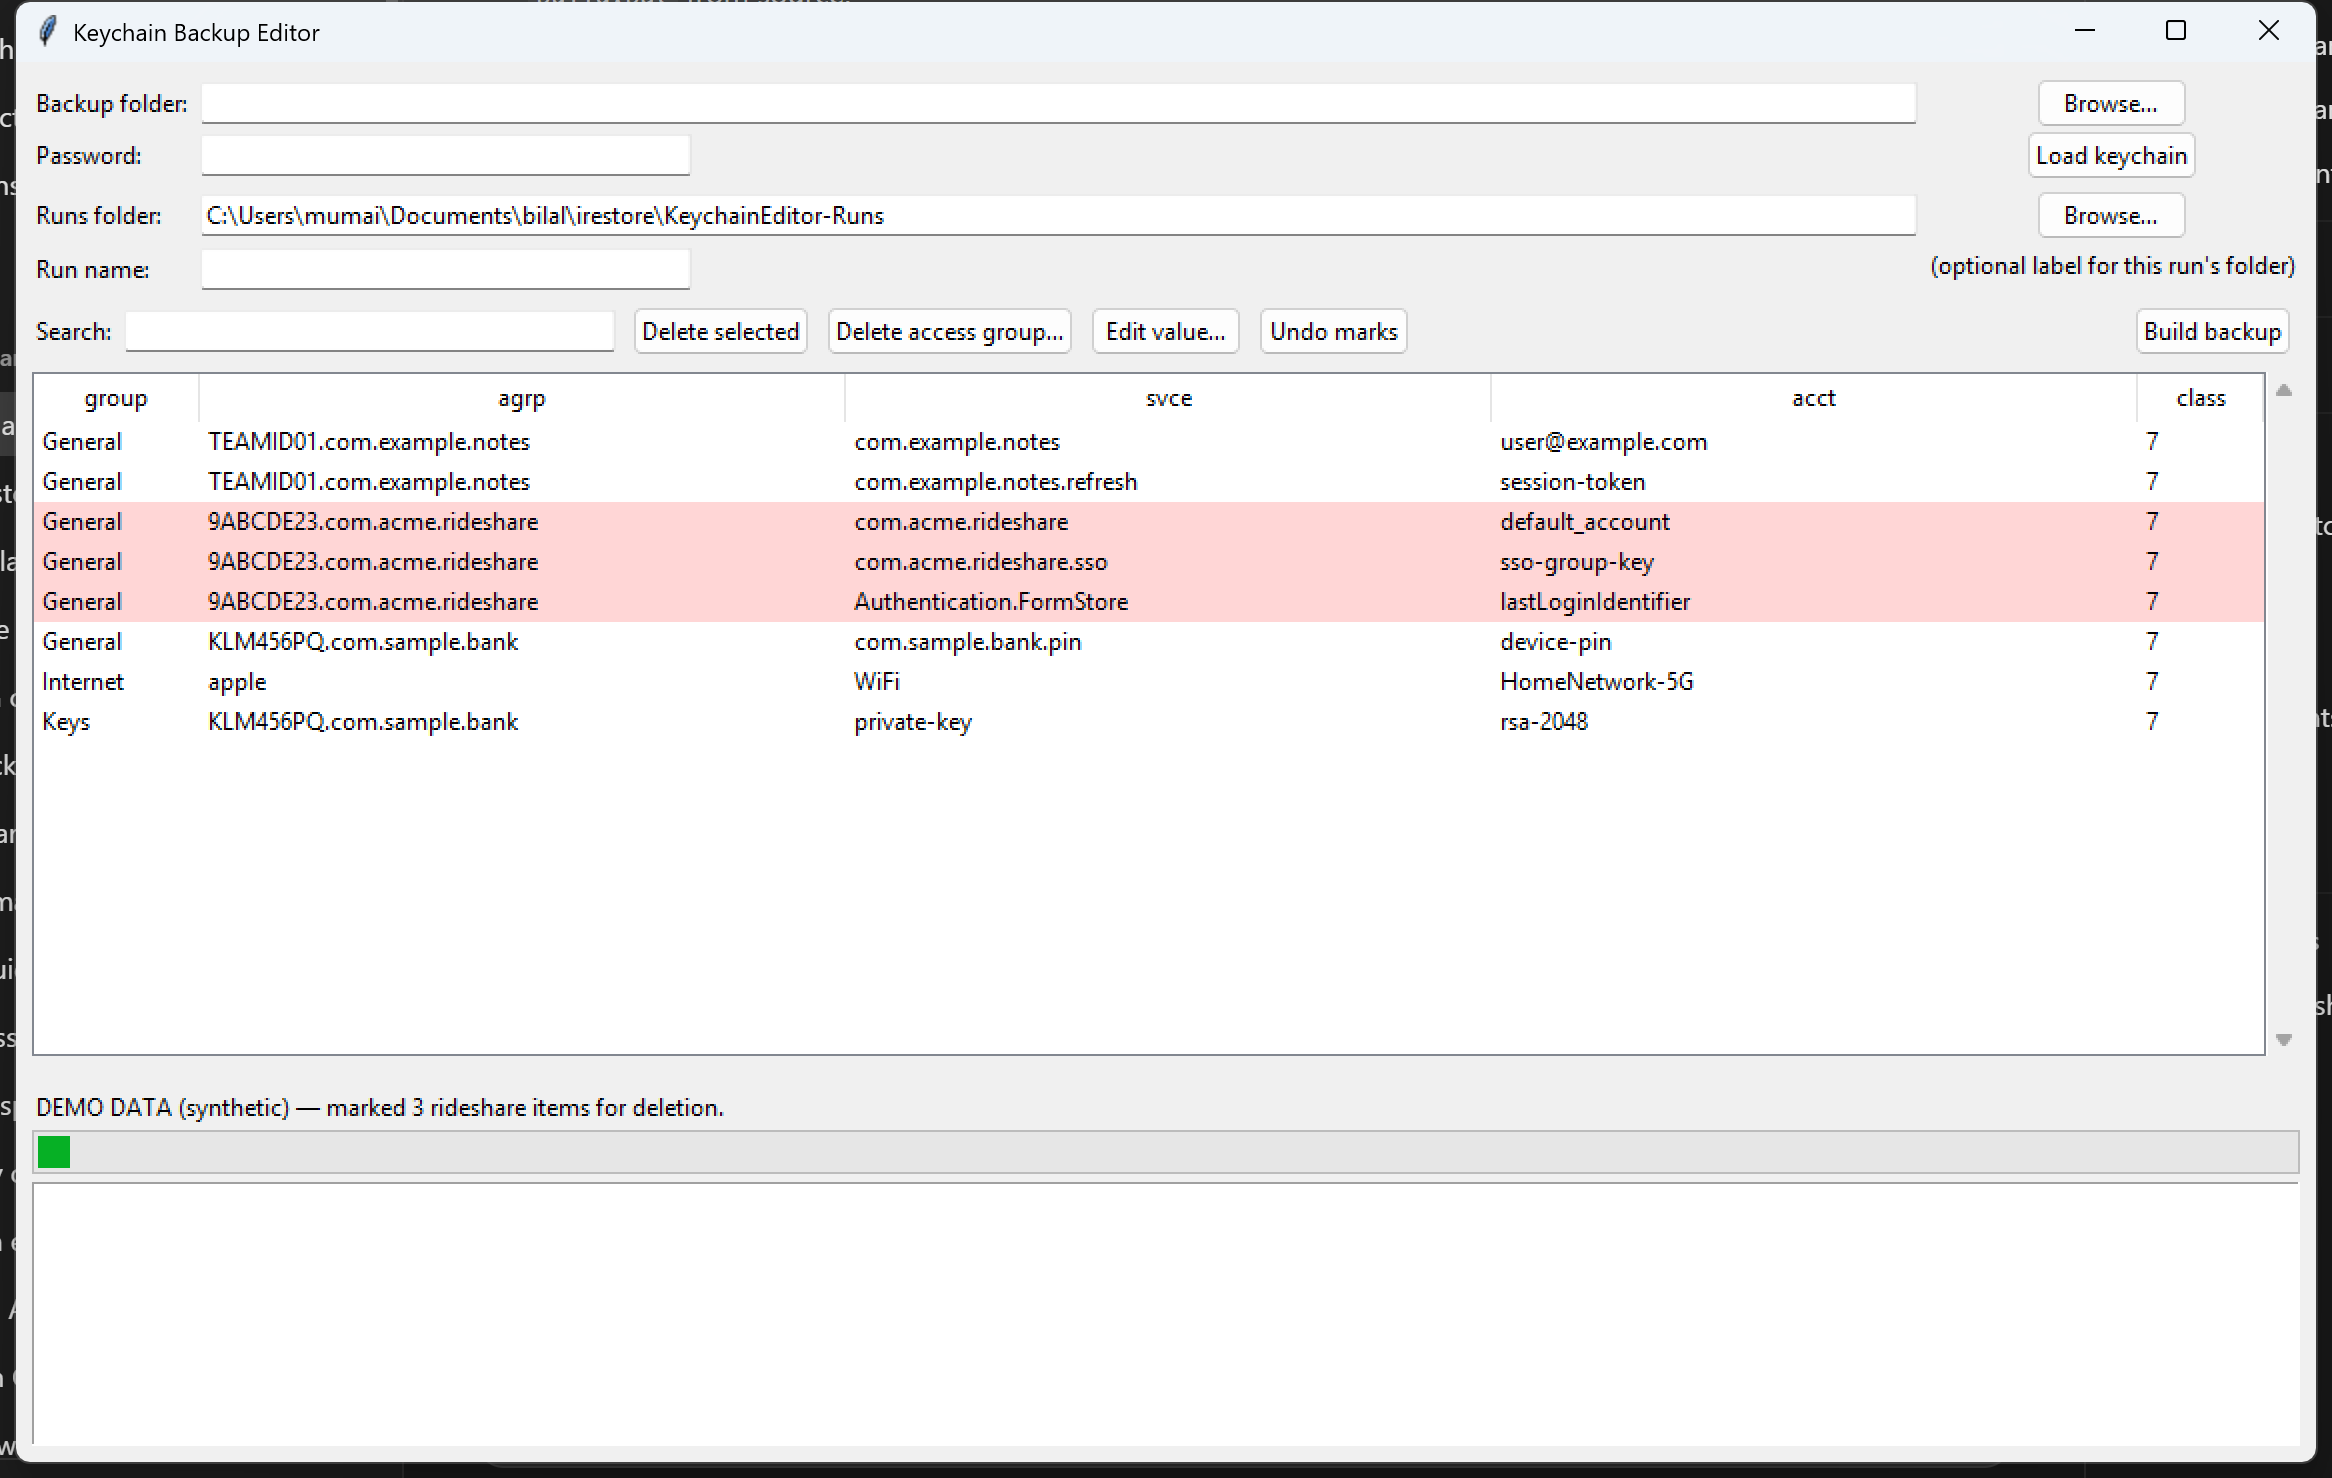
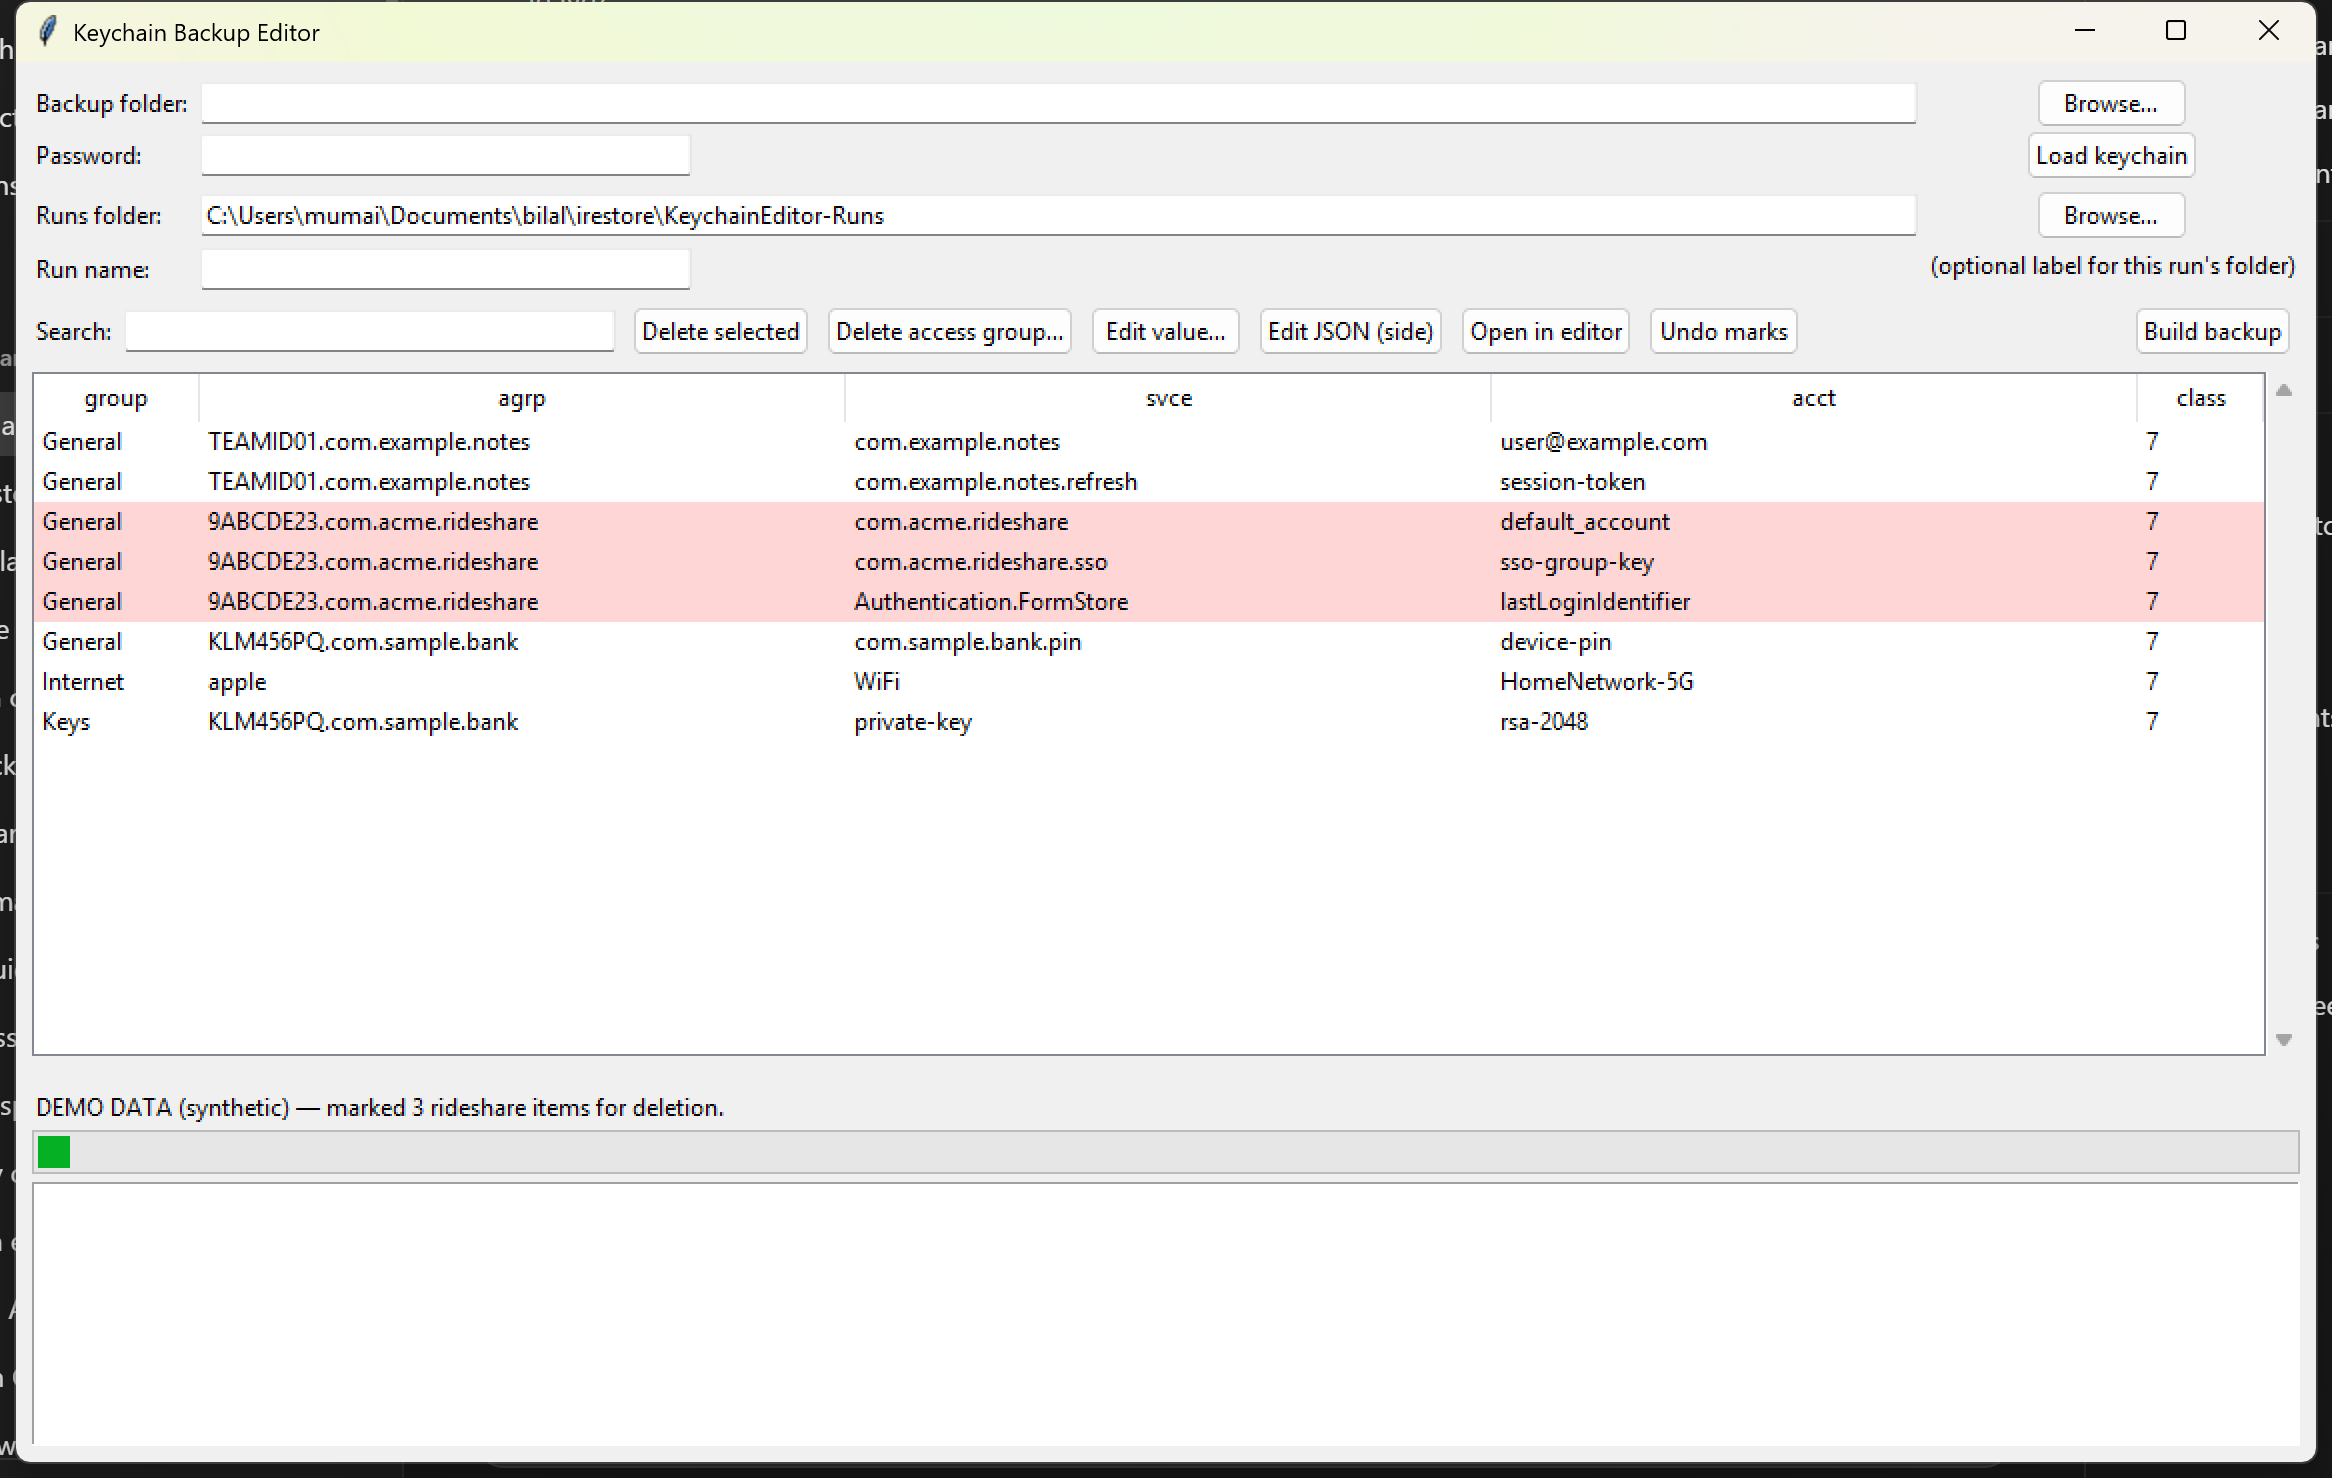
Add raw-JSON editing (built-in side editor + external editor)

Changed region(s): [[0.0, 0.0, 0.7101, 0.0622], [0.5249, 0.2179, 0.7719, 0.249]]

diff --git a/keychain_backup_editor.py b/keychain_backup_editor.py
@@ -100,8 +100,9 @@ class EditorApp:
 
     def _load_demo(self):
         import base64 as _b64
+        import hashlib as _h
         def mk(agrp, svce, acct):
-            raw = (agrp + svce + acct).encode()[:32].ljust(32, b"\0")
+            raw = _h.sha1((agrp + "|" + svce + "|" + acct).encode()).digest()
             return {
                 "agrp": agrp, "svce": svce, "acct": acct,
                 "labl": svce.split(".")[-1], "pdmn": "ak", "_class": 7,
@@ -177,6 +178,8 @@ class EditorApp:
         ttk.Button(bar, text="Delete selected", command=self.delete_selected).pack(side="left", padx=4)
         ttk.Button(bar, text="Delete access group…", command=self.delete_group).pack(side="left", padx=4)
         ttk.Button(bar, text="Edit value…", command=self.edit_value).pack(side="left", padx=4)
+        ttk.Button(bar, text="Edit JSON (side)", command=self.edit_json_builtin).pack(side="left", padx=4)
+        ttk.Button(bar, text="Open in editor", command=self.edit_json_external).pack(side="left", padx=4)
         ttk.Button(bar, text="Undo marks", command=self.undo_marks).pack(side="left", padx=4)
         self.build_btn = ttk.Button(bar, text="Build backup", command=self.build_backup)
         self.build_btn.pack(side="right", padx=4)
@@ -592,6 +595,111 @@ class EditorApp:
         self.deleted.clear()
         self.edits.clear()
         self.refresh_tree()
+
+    # ---------- raw JSON editing ----------
+    def _current_edited_dump(self):
+        """The dump as it stands now (deletions removed, edits applied)."""
+        out = {g: [] for g in JSON_TO_PLIST}
+        for group, recs in self.original_dump.items():
+            for rec in recs:
+                ref = rec.get("_ref")
+                if ref in self.deleted:
+                    continue
+                out[group].append(self.edits.get(ref, rec))
+        return out
+
+    def _apply_edited_dump(self, data):
+        """Diff an edited dump against the pristine one and update marks."""
+        if not isinstance(data, dict):
+            raise ValueError("Top level must be a JSON object with "
+                             "General/Internet/Certs/Keys arrays.")
+        orig = {}
+        for recs in self.original_dump.values():
+            for rec in recs:
+                orig[rec.get("_ref")] = rec
+        seen, edits, unknown = set(), {}, 0
+        for group in JSON_TO_PLIST:
+            for rec in data.get(group) or []:
+                ref = rec.get("_ref")
+                if ref not in orig:
+                    unknown += 1
+                    continue
+                seen.add(ref)
+                if rec != orig[ref]:
+                    edits[ref] = rec
+        self.deleted = set(orig) - seen
+        self.edits = edits
+        self.refresh_tree()
+        msg = f"Applied JSON: {len(self.deleted)} deleted, {len(self.edits)} edited."
+        if unknown:
+            msg += f"  Ignored {unknown} added/unknown item(s) — items can't be added."
+        self.set_status(msg)
+
+    def edit_json_builtin(self):
+        if self.original_dump is None:
+            messagebox.showinfo("Edit JSON", "Load a backup first.")
+            return
+        text = json.dumps(self._current_edited_dump(), indent=2)
+
+        win = tk.Toplevel(self.root)
+        win.title("Edit keychain JSON")
+        win.transient(self.root)
+        win.geometry("900x640")
+        ttk.Label(win, padding=8, foreground="#444", justify="left",
+                  text=("Edit the JSON, then Apply. Delete whole { … } items to remove them; "
+                        "change values to edit.\nDon't touch _ref (items are matched by it). "
+                        "Adding new items is ignored.")).pack(fill="x")
+        txt = tk.Text(win, wrap="none", undo=True)
+        ysb = ttk.Scrollbar(win, orient="vertical", command=txt.yview)
+        txt.configure(yscrollcommand=ysb.set)
+        txt.insert("1.0", text)
+        ysb.pack(side="right", fill="y")
+        txt.pack(side="left", fill="both", expand=True)
+
+        btns = ttk.Frame(win, padding=8)
+        btns.pack(side="bottom", fill="x")
+
+        def apply():
+            try:
+                data = json.loads(txt.get("1.0", "end"))
+            except json.JSONDecodeError as e:
+                messagebox.showerror("Invalid JSON", f"Line {e.lineno}: {e.msg}", parent=win)
+                return
+            try:
+                self._apply_edited_dump(data)
+            except Exception as e:
+                messagebox.showerror("Edit JSON", str(e), parent=win)
+                return
+            win.destroy()
+
+        ttk.Button(btns, text="Apply", command=apply).pack(side="right")
+        ttk.Button(btns, text="Cancel", command=win.destroy).pack(side="right", padx=6)
+
+    def edit_json_external(self):
+        if self.original_dump is None:
+            messagebox.showinfo("Edit JSON", "Load a backup first.")
+            return
+        self.work_dir.mkdir(parents=True, exist_ok=True)
+        path = self.work_dir / "edit-me.json"
+        with open(path, "w", encoding="utf-8") as f:
+            json.dump(self._current_edited_dump(), f, indent=2, default=self._json_default)
+        try:
+            os.startfile(str(path))  # opens the system default editor
+        except Exception:
+            subprocess.Popen(["notepad.exe", str(path)])
+        if not messagebox.askokcancel(
+                "External edit",
+                "Opened in your editor:\n\n" + str(path) +
+                "\n\nEdit and SAVE the file, then click OK to import it.\n"
+                "(Delete whole items to remove them; keep _ref unchanged.)"):
+            return
+        try:
+            with open(path, "r", encoding="utf-8") as f:
+                data = json.load(f)
+        except json.JSONDecodeError as e:
+            messagebox.showerror("Invalid JSON", f"Line {e.lineno}: {e.msg}")
+            return
+        self._apply_edited_dump(data)
 
     def sort_by(self, col):
         idx = COLUMNS.index(col)

diff --git a/README.md b/README.md
@@ -23,7 +23,9 @@ whole device.
   (access group / service / account).
 - **Delete** items — selected rows, or **every item in an access group**
   (one click).
-- **Edit** individual field values through a form (advanced; see warnings).
+- **Edit** individual field values through a form, or edit the **raw JSON**
+  directly — in a built-in side editor or your own external editor — and import
+  it back (advanced; see warnings).
 - Rebuilds a **restorable** backup, with the manifest kept consistent so iTunes
   accepts it.
 - Every run is saved in its **own folder** with the dump, the edited dump, a
@@ -74,7 +76,9 @@ they can't be corrupted.*
    - select rows and **Delete selected**, or
    - **Delete access group…** and type the app's access group
      (e.g. `5F83KRY2FH.com.ubercab.UberPartner`), or
-   - double‑click a row to **edit a value**.
+   - double‑click a row to **edit a value**, or
+   - **Edit JSON (side)** / **Open in editor** to edit the whole dump as raw
+     JSON (delete items or change values, keep `_ref` intact) and import it back.
 6. **Build backup** — creates a rebuilt backup plus a summary and restore
    instructions in the run folder.
 
